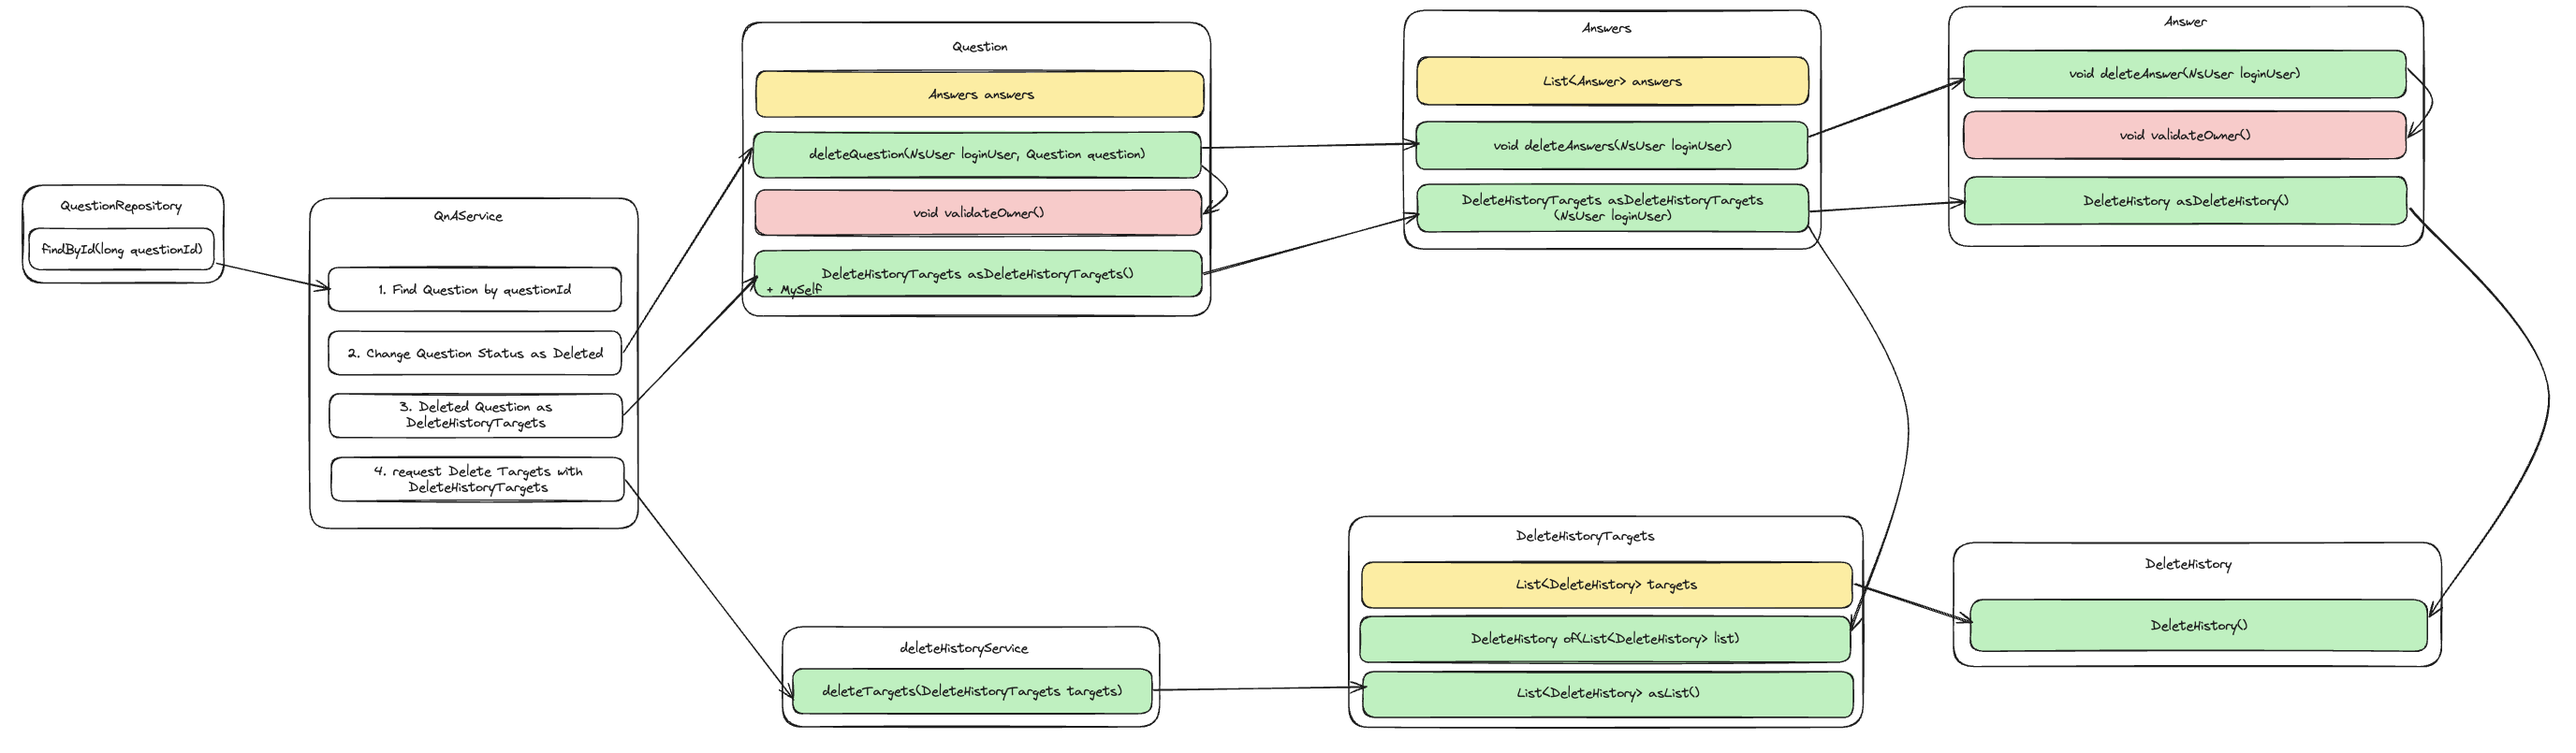
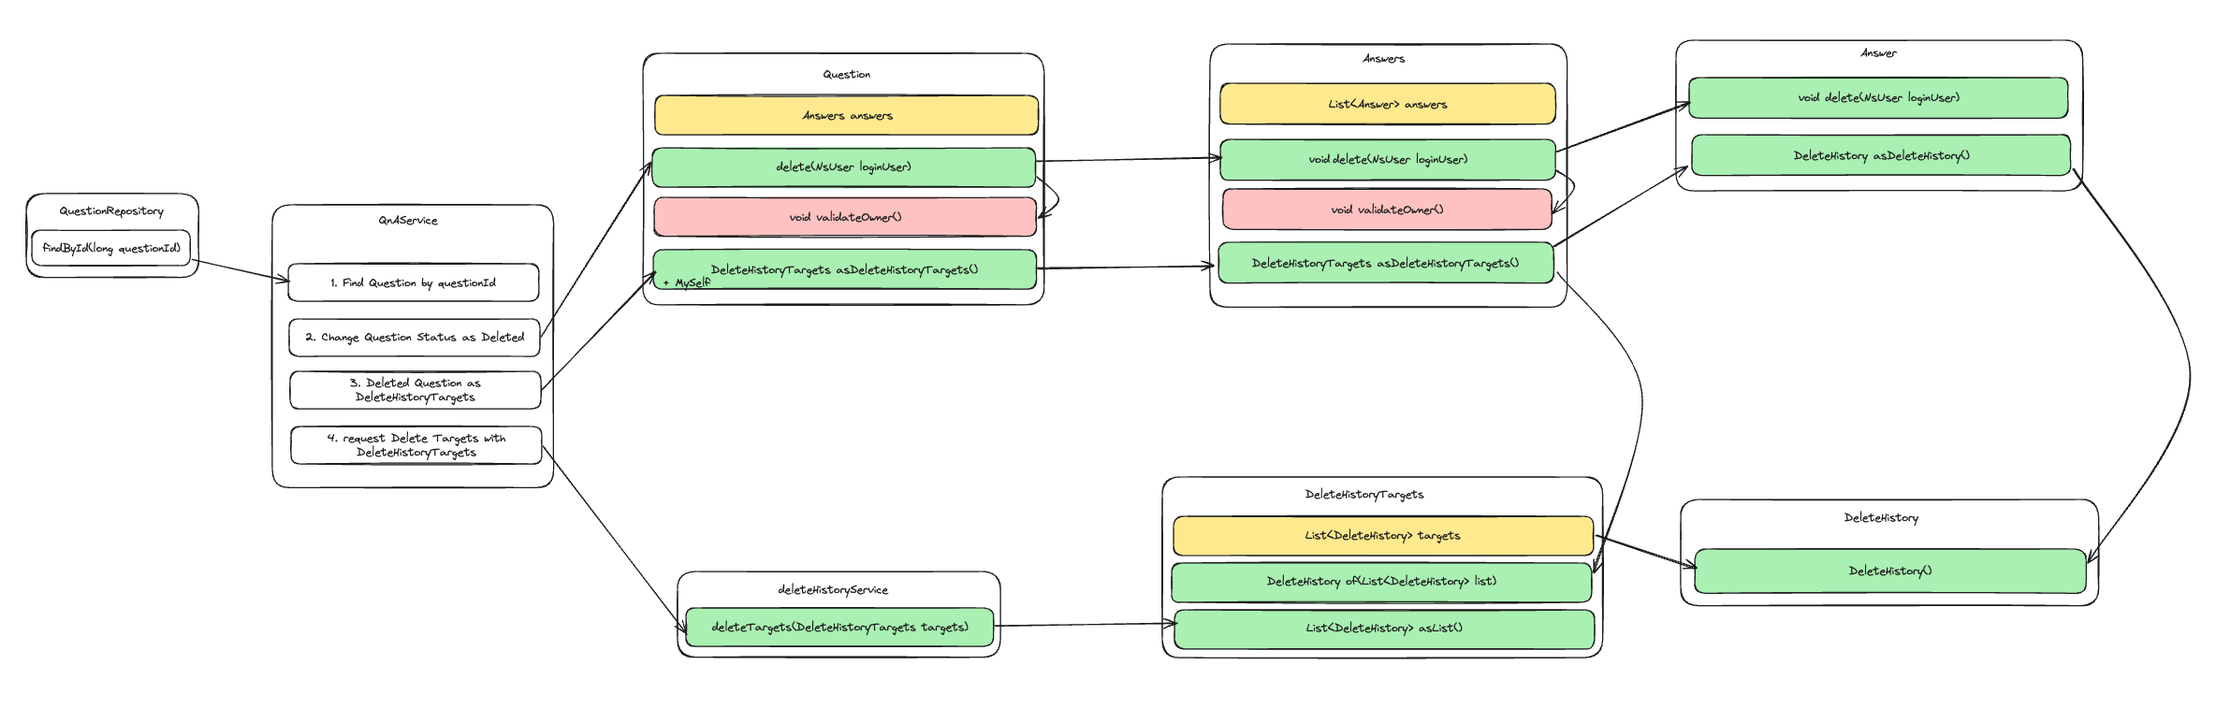
refactor: Question 삭제 기능 리팩토링
- Question 상태 삭제
- 삭제 리스트 반환 구현
- 변경에 따른 QnAService 리팩토링

diff --git a/src/test/java/nextstep/qna/domain/QuestionTest.java b/src/test/java/nextstep/qna/domain/QuestionTest.java
@@ -1,8 +1,123 @@
 package nextstep.qna.domain;
 
+import nextstep.qna.CannotDeleteException;
 import nextstep.users.domain.NsUserTest;
+import org.junit.jupiter.api.BeforeEach;
+import org.junit.jupiter.api.DisplayName;
+import org.junit.jupiter.api.Test;
+
+import java.time.LocalDateTime;
+
+import static org.assertj.core.api.Assertions.assertThat;
+import static org.assertj.core.api.Assertions.assertThatThrownBy;
 
 public class QuestionTest {
-    public static final Question Q1 = new Question(NsUserTest.JAVAJIGI, "title1", "contents1");
-    public static final Question Q2 = new Question(NsUserTest.SANJIGI, "title2", "contents2");
+    Question Q1;
+    Question Q2;
+    Answer A1;
+    Answer A2;
+    Answer A3;
+
+    @BeforeEach
+    void setUp() {
+        Q1 = new Question(NsUserTest.JAVAJIGI, "title1", "contents1");
+        Q2 = new Question(NsUserTest.SANJIGI, "title2", "contents2");
+        A1 = new Answer(NsUserTest.JAVAJIGI, Q1, "Answers Contents1");
+        A2 = new Answer(NsUserTest.JAVAJIGI, Q1, "Answers Contents2");
+        A3 = new Answer(NsUserTest.SANJIGI, Q1, "Answers Contents3");
+    }
+
+    @DisplayName("질문 작성자와 loginUser가 다르면 CannotDeleteException을 던진다.")
+    @Test
+    void throwCannotDeleteExceptionWhenOwnerAndLoginUserNotSame() {
+        // then
+        assertThatThrownBy(() -> Q1.delete(NsUserTest.SANJIGI))
+                .isInstanceOf(CannotDeleteException.class)
+                .hasMessage("질문을 삭제할 권한이 없습니다.");
+    }
+
+    @DisplayName("Question을 삭제하면, 해당 질문의 delete 상태가 변경된다.")
+    @Test
+    void changeDeleteStatusWhenDelete() throws CannotDeleteException {
+        // when
+        Q1.delete(NsUserTest.JAVAJIGI);
+
+        // then
+        assertThat(Q1.isDeleted())
+                .isTrue();
+    }
+
+    @DisplayName("Question을 삭제하면, 해당 질문의 답변삭제를 실행한다.")
+    @Test
+    void deleteAnswersWhenQuestionDelete() throws CannotDeleteException {
+        // given
+        Q1.addAnswer(A1);
+        Q1.addAnswer(A2);
+
+        // when
+        Q1.delete(NsUserTest.JAVAJIGI);
+
+        // then
+        Answers answers = Q1.getAnswers();
+        assertThat(answers.asDeleteHistoryTargets().asList())
+                .containsExactly(
+                        new DeleteHistory(ContentType.ANSWER, A1.getId(), NsUserTest.JAVAJIGI, LocalDateTime.now()),
+                        new DeleteHistory(ContentType.ANSWER, A2.getId(), NsUserTest.JAVAJIGI, LocalDateTime.now())
+                );
+    }
+
+    @DisplayName("삭제 도중 실패하면 모든 상태는 변하지 않는다.")
+    @Test
+    void noStatusUpdateWhenFailedToDelete() throws CannotDeleteException {
+        // given
+        boolean beforeQ1DeleteStatus = Q1.isDeleted();
+        boolean beforeA1DeleteStatus = A1.isDeleted();
+        boolean beforeA3DeleteStatus = A3.isDeleted();
+        Q1.addAnswer(A1);
+        Q1.addAnswer(A3);
+
+        // then
+        assertThatThrownBy(() -> Q1.delete(NsUserTest.JAVAJIGI))
+                .isInstanceOf(CannotDeleteException.class);
+
+        assertThat(Q1.isDeleted()).isEqualTo(beforeQ1DeleteStatus);
+        assertThat(A1.isDeleted()).isEqualTo(beforeA1DeleteStatus);
+        assertThat(A3.isDeleted()).isEqualTo(beforeA3DeleteStatus);
+    }
+
+    @DisplayName("삭제가 성공하면 모든 상태는 삭제상태가 된다.")
+    @Test
+    void statusUpdateWhenSuccessToDelete() throws CannotDeleteException {
+        // given
+        Q1.addAnswer(A1);
+        Q1.addAnswer(A2);
+
+        // when
+        Q1.delete(NsUserTest.JAVAJIGI);
+
+        // then
+        assertThat(Q1.isDeleted()).isTrue();
+        assertThat(A1.isDeleted()).isTrue();
+        assertThat(A2.isDeleted()).isTrue();
+    }
+
+    @DisplayName("삭제 리스트에 대해 DeleteHistoryTargets로 반환받을 수 있다.")
+    @Test
+    void getDeletedElementToDeleteHistoryTargets() throws CannotDeleteException {
+        // given
+        Q1.addAnswer(A1);
+        Q1.addAnswer(A2);
+
+        // when
+        Q1.delete(NsUserTest.JAVAJIGI);
+
+        // then
+        DeleteHistoryTargets deleteHistoryTargets = Q1.asDeleteHistoryTargets(NsUserTest.JAVAJIGI);
+        assertThat(deleteHistoryTargets.asList())
+                .contains(
+                        new DeleteHistory(ContentType.QUESTION, Q1.getId(), NsUserTest.JAVAJIGI, LocalDateTime.now()),
+                        new DeleteHistory(ContentType.ANSWER, A1.getId(), NsUserTest.JAVAJIGI, LocalDateTime.now()),
+                        new DeleteHistory(ContentType.ANSWER, A2.getId(), NsUserTest.JAVAJIGI, LocalDateTime.now())
+                );
+    }
 }

diff --git a/src/main/java/nextstep/qna/domain/Question.java b/src/main/java/nextstep/qna/domain/Question.java
@@ -1,10 +1,10 @@
 package nextstep.qna.domain;
 
+import nextstep.qna.CannotConvertException;
+import nextstep.qna.CannotDeleteException;
 import nextstep.users.domain.NsUser;
 
 import java.time.LocalDateTime;
-import java.util.ArrayList;
-import java.util.List;
 
 public class Question {
     private Long id;
@@ -15,7 +15,7 @@ public class Question {
 
     private NsUser writer;
 
-    private List<Answer> answers = new ArrayList<>();
+    private Answers answers;
 
     private boolean deleted = false;
 
@@ -35,6 +35,7 @@ public class Question {
         this.writer = writer;
         this.title = title;
         this.contents = contents;
+        this.answers = new Answers();
     }
 
     public Long getId() {
@@ -81,12 +82,43 @@ public class Question {
         return deleted;
     }
 
-    public List<Answer> getAnswers() {
+    public Answers getAnswers() {
         return answers;
     }
 
     @Override
     public String toString() {
         return "Question [id=" + getId() + ", title=" + title + ", contents=" + contents + ", writer=" + writer + "]";
+    }
+
+    public void delete(NsUser loginUser) throws CannotDeleteException {
+        validateOwner(loginUser);
+
+        if (this.answers.hasAnswer()) {
+            this.answers.delete(loginUser);
+        }
+
+        this.setDeleted(true);
+    }
+
+    private void validateOwner(NsUser loginUser) throws CannotDeleteException {
+        if (!this.isOwner(loginUser)) {
+            throw new CannotDeleteException("질문을 삭제할 권한이 없습니다.");
+        }
+    }
+
+    public DeleteHistoryTargets asDeleteHistoryTargets(NsUser loginUser) {
+        validateDeleteStatus();
+
+        DeleteHistoryTargets deleteHistoryTargets = this.answers.asDeleteHistoryTargets();
+        deleteHistoryTargets.addFirst(new DeleteHistory(ContentType.QUESTION, this.getId(), loginUser, LocalDateTime.now()));
+
+        return deleteHistoryTargets;
+    }
+
+    private void validateDeleteStatus() {
+        if (!this.isDeleted()) {
+            throw new CannotConvertException("Question이 삭제상태가 아니기 떄문에 변환할 수 없습니다.");
+        }
     }
 }

diff --git a/src/main/java/nextstep/qna/service/QnAService.java b/src/main/java/nextstep/qna/service/QnAService.java
@@ -26,24 +26,10 @@ public class QnAService {
     @Transactional
     public void deleteQuestion(NsUser loginUser, long questionId) throws CannotDeleteException {
         Question question = questionRepository.findById(questionId).orElseThrow(NotFoundException::new);
-        if (!question.isOwner(loginUser)) {
-            throw new CannotDeleteException("질문을 삭제할 권한이 없습니다.");
-        }
 
-        List<Answer> answers = question.getAnswers();
-        for (Answer answer : answers) {
-            if (!answer.isOwner(loginUser)) {
-                throw new CannotDeleteException("다른 사람이 쓴 답변이 있어 삭제할 수 없습니다.");
-            }
-        }
+        question.delete(loginUser);
+        DeleteHistoryTargets deleteHistoryTargets = question.asDeleteHistoryTargets(loginUser);
 
-        List<DeleteHistory> deleteHistories = new ArrayList<>();
-        question.setDeleted(true);
-        deleteHistories.add(new DeleteHistory(ContentType.QUESTION, questionId, question.getWriter(), LocalDateTime.now()));
-        for (Answer answer : answers) {
-            answer.setDeleted(true);
-            deleteHistories.add(new DeleteHistory(ContentType.ANSWER, answer.getId(), answer.getWriter(), LocalDateTime.now()));
-        }
-        deleteHistoryService.saveAll(deleteHistories);
+        deleteHistoryService.saveAll(deleteHistoryTargets.asList());
     }
 }

diff --git a/src/main/java/nextstep/qna/domain/Answers.java b/src/main/java/nextstep/qna/domain/Answers.java
@@ -5,12 +5,17 @@ import nextstep.qna.CannotConvertException;
 import nextstep.users.domain.NsUser;
 
 import java.time.LocalDateTime;
+import java.util.ArrayList;
 import java.util.List;
 import java.util.stream.Collectors;
 
 public class Answers {
 
     private final List<Answer> answers;
+
+    public Answers() {
+        this.answers = new ArrayList<>();
+    }
 
     public Answers(List<Answer> answers) {
         this.answers = answers;
@@ -56,5 +61,13 @@ public class Answers {
         return answers.stream()
                 .map(answer -> new DeleteHistory(ContentType.ANSWER, answer.getId(), answer.getWriter(), LocalDateTime.now()))
                 .collect(Collectors.toList());
+    }
+
+    public void add(Answer answer) {
+        this.answers.add(answer);
+    }
+
+    public boolean hasAnswer() {
+        return !this.answers.isEmpty();
     }
 }

diff --git a/src/test/java/nextstep/qna/domain/AnswersTest.java b/src/test/java/nextstep/qna/domain/AnswersTest.java
@@ -18,12 +18,14 @@ class AnswersTest {
     Answer A1;
     Answer A2;
     Answer A3;
+    Question Q1;
 
     @BeforeEach
     void setUp() {
-        A1 = new Answer(NsUserTest.JAVAJIGI, QuestionTest.Q1, "Answers Contents1");
-        A2 = new Answer(NsUserTest.SANJIGI, QuestionTest.Q1, "Answers Contents2");
-        A3 = new Answer(NsUserTest.SANJIGI, QuestionTest.Q1, "Answers Contents3");
+        Q1 = new Question(NsUserTest.JAVAJIGI, "title1", "contents1");
+        A1 = new Answer(NsUserTest.JAVAJIGI, Q1, "Answers Contents1");
+        A2 = new Answer(NsUserTest.SANJIGI, Q1, "Answers Contents2");
+        A3 = new Answer(NsUserTest.SANJIGI, Q1, "Answers Contents3");
     }
 
     @DisplayName("삭제 요청 시 답변 리스트의 owner 중 하나라도 loginUser와 다르다면, CannotDeleteException를 던진다.")

diff --git a/src/test/java/nextstep/qna/domain/AnswerTest.java b/src/test/java/nextstep/qna/domain/AnswerTest.java
@@ -13,11 +13,13 @@ import static org.assertj.core.api.Assertions.assertThat;
 public class AnswerTest {
     Answer A1;
     Answer A2;
+    Question Q1;
 
     @BeforeEach
     void setUp() {
-        A1 = new Answer(NsUserTest.JAVAJIGI, QuestionTest.Q1, "Answers Contents1");
-        A2 = new Answer(NsUserTest.SANJIGI, QuestionTest.Q1, "Answers Contents2");
+        Q1 = new Question(NsUserTest.JAVAJIGI, "title1", "contents1");
+        A1 = new Answer(NsUserTest.JAVAJIGI, Q1, "Answers Contents1");
+        A2 = new Answer(NsUserTest.SANJIGI, Q1, "Answers Contents2");
     }
 
     @DisplayName("Answer에 대한 삭제를 진행할 때, loginUser와 writer가 같다면 삭제 상태를 변경한다.")

diff --git a/src/test/java/nextstep/qna/service/QnaServiceTest.java b/src/test/java/nextstep/qna/service/QnaServiceTest.java
@@ -34,10 +34,13 @@ public class QnaServiceTest {
     private Question question;
     private Answer answer;
 
+    Question Q1;
+
     @BeforeEach
     public void setUp() throws Exception {
+        Q1 = new Question(NsUserTest.JAVAJIGI, "title1", "contents1");
         question = new Question(1L, NsUserTest.JAVAJIGI, "title1", "contents1");
-        answer = new Answer(11L, NsUserTest.JAVAJIGI, QuestionTest.Q1, "Answers Contents1");
+        answer = new Answer(11L, NsUserTest.JAVAJIGI, Q1, "Answers Contents1");
         question.addAnswer(answer);
     }
 

diff --git a/src/main/java/nextstep/qna/domain/DeleteHistoryTargets.java b/src/main/java/nextstep/qna/domain/DeleteHistoryTargets.java
@@ -13,4 +13,8 @@ public class DeleteHistoryTargets {
     public List<DeleteHistory> asList() {
         return List.copyOf(targets);
     }
+
+    public void addFirst(DeleteHistory deleteHistory) {
+        this.targets.add(0, deleteHistory);
+    }
 }

diff --git a/src/main/java/nextstep/qna/domain/Answer.java b/src/main/java/nextstep/qna/domain/Answer.java
@@ -1,6 +1,5 @@
 package nextstep.qna.domain;
 
-import nextstep.qna.CannotDeleteException;
 import nextstep.qna.NotFoundException;
 import nextstep.qna.UnAuthorizedException;
 import nextstep.users.domain.NsUser;

diff --git a/README.md b/README.md
@@ -44,5 +44,5 @@
 - [x] DeleteHistoryTargets 일급 컬렉션 구현
 - [x] DeleteHistory 서비스의 DeleteHistoryTargets에 대한 삭제 구현
 - [x] Answer 일급 컬렉션 구현
-- [ ] Question 삭제 상태 변경 구현
-- [ ] Question 삭제 리스트 반환 구현
+- [x] Question 삭제 상태 변경 구현
+- [x] Question 삭제 리스트 반환 구현
